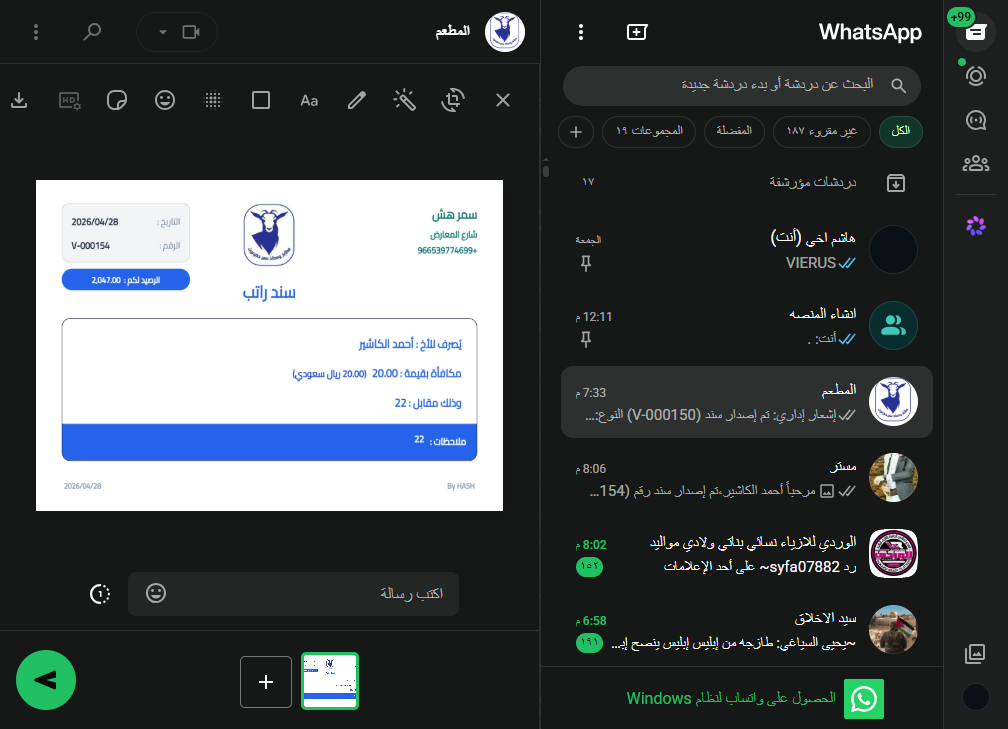
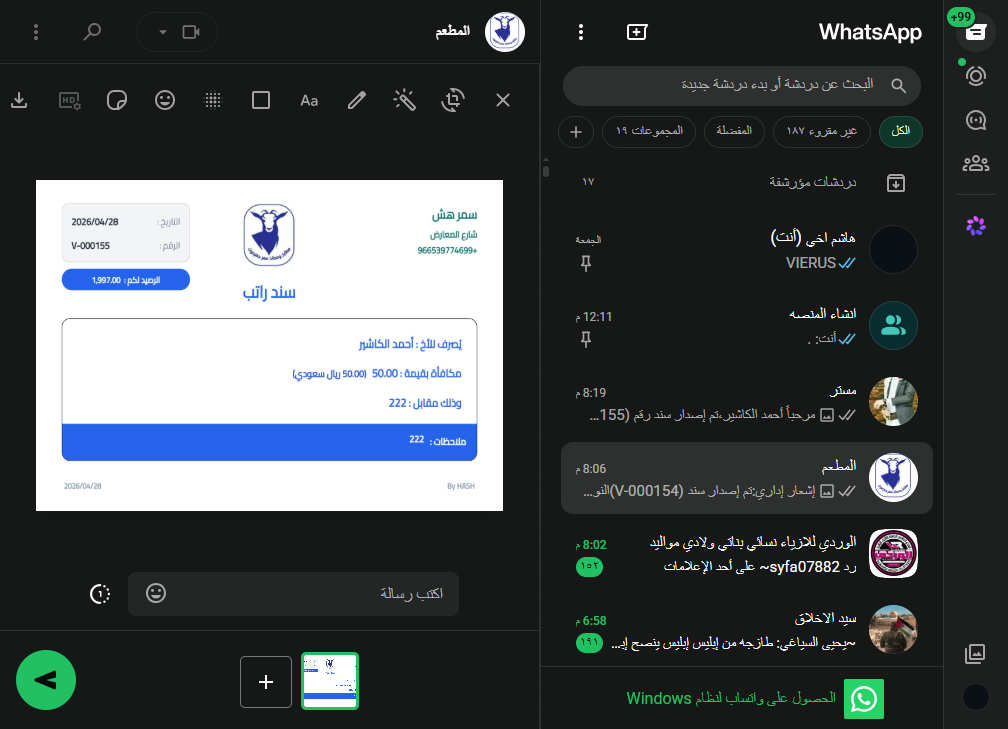
اواتساب الصوره اولا111

Changed region(s): [[0.8304, 0.513, 0.9226, 0.6941], [0.5843, 0.513, 0.8304, 0.5734], [0.5843, 0.6639, 0.8304, 0.6941]]

diff --git a/main.js b/main.js
@@ -1399,10 +1399,13 @@ function startWhatsApp() {
     // Heartbeat: detect "zombie" sessions (connected but not working) and recover automatically.
     // If getState fails/returns null repeatedly, reinitialize.
     let _hbFailures = 0;
+    let _hbStuckCount = 0;
+    let _lastState = null;
     const _hbTimer = setInterval(async () => {
       try {
         if (!waClient) return;
         const st = await waClient.getState().catch(() => null);
+        
         if (!st) {
           _hbFailures += 1;
           if (_hbFailures >= 3) {
@@ -1413,7 +1416,43 @@ function startWhatsApp() {
           }
           return;
         }
+        
         _hbFailures = 0;
+        
+        // كشف الجلسات العالقة: نفس الحالة تتكرر بدون تغيير
+        if (st === _lastState) {
+          _hbStuckCount++;
+          if (_hbStuckCount >= 6) { // بعد 90 ثانية (6 * 15) من نفس الحالة
+            console.warn('[WA] Session appears stuck on state:', st, '- Force refreshing...');
+            
+            // محاولة إعادة تنشيط الجلسة أولاً
+            try {
+              // إرسال حدث فارغ لإجبار واتساب على التحديث
+              await waClient.pupPage.evaluate(() => {
+                window.dispatchEvent(new Event('resize'));
+              }).catch(() => {});
+              
+              console.log('[WA] Force refresh triggered, waiting for recovery...');
+              _hbStuckCount = 0;
+            } catch (e) {
+              // إذا فشل التنشيط، إعادة تشغيل كاملة
+              console.warn('[WA] Force refresh failed, restarting session...');
+              clearInterval(_hbTimer);
+              await teardownWaClient();
+              scheduleWhatsAppRestart('stuck_session', 2000);
+            }
+          }
+        } else {
+          _hbStuckCount = 0;
+          _lastState = st;
+        }
+        
+        // تحديث waReady إذا كانت الحالة CONNECTED
+        if (st === 'CONNECTED' && !waReady) {
+          console.log('[WA] Heartbeat detected CONNECTED state, updating ready flag');
+          waReady = true;
+          BrowserWindow.getAllWindows().forEach(win => win.webContents.send('wa-ready'));
+        }
       } catch (e) {
         _hbFailures += 1;
       }
@@ -1483,6 +1522,37 @@ ipcMain.on('wa-check-status', (event) => {
     // Not started yet - tell renderer it's disconnected instead of force-starting
     event.sender.send('wa-disconnected');
   }
+});
+
+// New: Explicit wait for WA ready state (useful before sending)
+ipcMain.handle('wa-wait-ready', async (event, timeout = 30000) => {
+  if (waReady && waClient) {
+    return { ready: true, state: 'CONNECTED' };
+  }
+  
+  const start = Date.now();
+  while (Date.now() - start < timeout) {
+    if (waReady && waClient) {
+      return { ready: true, state: 'CONNECTED' };
+    }
+    
+    // تحقق من الحالة الفعلية
+    if (waClient) {
+      try {
+        const state = await waClient.getState().catch(() => null);
+        if (state === 'CONNECTED') {
+          waReady = true;
+          return { ready: true, state: 'CONNECTED' };
+        }
+      } catch (e) {
+        // تجاهل
+      }
+    }
+    
+    await new Promise(resolve => setTimeout(resolve, 500));
+  }
+  
+  return { ready: false, state: waClient ? 'LOADING' : 'NOT_INITIALIZED' };
 });
 
 // Manual trigger from renderer (button press)
@@ -1565,7 +1635,39 @@ ipcMain.on('wa-refresh', async () => {
 
 /** إرسال فعلي عبر جلسة واتساب على هذا الجهاز */
 async function deliverWhatsAppMessage(data) {
+  // تحقق ديناميكي من جاهزية واتساب قبل الإرسال
   if (!waClient) return { ok: false, error: 'no_client', code: 'NO_CLIENT' };
+  
+  // انتظار ذكي حتى يصبح واتساب جاهزاً (بدلاً من المهلة الزمنية الثابتة)
+  if (!waReady) {
+    console.log('[WA] Not ready yet, waiting for ready state...');
+    const maxWait = 60000; // حد أقصى 60 ثانية
+    const checkInterval = 500; // تحقق كل نصف ثانية
+    let waited = 0;
+    
+    while (!waReady && waited < maxWait) {
+      await new Promise(resolve => setTimeout(resolve, checkInterval));
+      waited += checkInterval;
+      
+      // تحقق إضافي من حالة الجلسة
+      try {
+        const state = await waClient.getState().catch(() => null);
+        if (state === 'CONNECTED' && !waReady) {
+          console.log('[WA] State is CONNECTED, marking as ready');
+          waReady = true;
+          break;
+        }
+      } catch (e) {
+        // تجاهل الأخطاء أثناء الانتظار
+      }
+    }
+    
+    if (!waReady) {
+      console.warn('[WA] Timeout waiting for ready state after', maxWait, 'ms');
+      return { ok: false, error: 'not_ready_timeout', code: 'NOT_READY_TIMEOUT' };
+    }
+    console.log('[WA] Ready state achieved after', waited, 'ms');
+  }
   try {
     const { MessageMedia } = require('whatsapp-web.js');
     const number = data.number;
@@ -2030,6 +2132,46 @@ async function handleWaSendMessage(event, data) {
   const targetRaw = String(data.number || '');
   const hasImage = isValidImageData(data.image);
   let sendResult = { success: false, number: targetRaw, image: hasImage };
+
+  // ── تحقق ديناميكي من جاهزية واتساب (Bot mode) ──
+  if (data.wa_mode === 'bot' && waClient && !waReady) {
+    console.log('[WA][NATIVE] Not ready, waiting for connection...');
+    const maxWait = 60000;
+    const checkInterval = 500;
+    let waited = 0;
+    
+    while (!waReady && waited < maxWait) {
+      await new Promise(resolve => setTimeout(resolve, checkInterval));
+      waited += checkInterval;
+      
+      // تحقق من الحالة الفعلية
+      try {
+        const state = await waClient.getState().catch(() => null);
+        if (state === 'CONNECTED' && !waReady) {
+          console.log('[WA][NATIVE] State CONNECTED detected during wait');
+          waReady = true;
+          break;
+        }
+      } catch (e) {
+        // تجاهل
+      }
+      
+      // تحقق من وجود النافذة
+      if (waNativeWin && waNativeWin.webContents && !waNativeWin.webContents.isLoading()) {
+        console.log('[WA][NATIVE] Native window ready');
+        break;
+      }
+    }
+    
+    if (!waReady && !waNativeWin) {
+      console.warn('[WA][NATIVE] Timeout waiting for ready state');
+      sendResult.error = 'WhatsApp not ready after 60s';
+      if (event && event.sender) {
+        event.sender.send('wa-send-result', sendResult);
+      }
+      return;
+    }
+  }
 
   // ── وضع المتصفح (Browser Mode) ─────────────────────────────────────────
   if (data.wa_mode === 'browser') {

diff --git a/WA_IMPROVEMENTS.md b/WA_IMPROVEMENTS.md
@@ -1,0 +1,201 @@
+# تحسينات واتساب - WA Improvements
+
+## 📋 المشاكل التي تم حلها
+
+### 1⃣ مشكلة الانتظار الطويل عند أول إرسال
+**المشكلة:**
+- عند إرسال أول سند بعد تشغيل البرنامج، كان واتساب يقعد وقت طويل يحمل
+- لم يكن هناك تحقق فعلي من جاهزية واتساب قبل الإرسال
+
+**الحل المطبق:**
+- ✅ إضافة تحقق ديناميكي من `waReady` قبل الإرسال
+- ✅ انتظار ذكي يتحقق من حالة الجلسة كل 500ms
+- ✅ التحقق من `getState() === 'CONNECTED'` كدليل على الجاهزية
+- ✅ حد أقصى للانتظار: 60 ثانية (بدلاً من الانتظار اللانهائي)
+- ✅ إذا وصلت الحالة CONNECTED، يتم تحديث `waReady = true` فوراً
+
+**الكود المضاف:**
+```javascript
+// في deliverWhatsAppMessage()
+if (!waReady) {
+  console.log('[WA] Not ready yet, waiting for ready state...');
+  const maxWait = 60000;
+  const checkInterval = 500;
+  let waited = 0;
+  
+  while (!waReady && waited < maxWait) {
+    await new Promise(resolve => setTimeout(resolve, checkInterval));
+    waited += checkInterval;
+    
+    try {
+      const state = await waClient.getState().catch(() => null);
+      if (state === 'CONNECTED' && !waReady) {
+        console.log('[WA] State is CONNECTED, marking as ready');
+        waReady = true;
+        break;
+      }
+    } catch (e) {}
+  }
+  
+  if (!waReady) {
+    return { ok: false, error: 'not_ready_timeout', code: 'NOT_READY_TIMEOUT' };
+  }
+}
+```
+
+### 2⃣ مشكلة تعليق واتساب وعدم تحميل الدردشات
+**المشكلة:**
+- في بعض الأحيان يعلق واتساب ولا يحمّل الدردشات
+- لم يكن هناك كشف تلقائي للجلسات العالقة
+
+**الحل المطبق:**
+- ✅ كشف الجلسات العالقة: إذا كانت نفس الحالة تتكرر لمدة 90 ثانية (6 checks × 15s)
+- ✅ محاولة إعادة تنشيط الجلسة أولاً عبر Event resize
+- ✅ إذا فشل التنشيط، إعادة تشغيل كاملة للجلسة
+- ✅ تحديث تلقائي لـ `waReady` عند اكتشاف `CONNECTED` في Heartbeat
+
+**الكود المضاف:**
+```javascript
+// في Heartbeat interval
+let _hbStuckCount = 0;
+let _lastState = null;
+
+if (st === _lastState) {
+  _hbStuckCount++;
+  if (_hbStuckCount >= 6) { // 90 ثانية
+    console.warn('[WA] Session appears stuck on state:', st);
+    
+    // محاولة إعادة تنشيط
+    try {
+      await waClient.pupPage.evaluate(() => {
+        window.dispatchEvent(new Event('resize'));
+      });
+      _hbStuckCount = 0;
+    } catch (e) {
+      // إعادة تشغيل كاملة
+      await teardownWaClient();
+      scheduleWhatsAppRestart('stuck_session', 2000);
+    }
+  }
+} else {
+  _hbStuckCount = 0;
+  _lastState = st;
+}
+
+// تحديث waReady تلقائياً
+if (st === 'CONNECTED' && !waReady) {
+  waReady = true;
+  BrowserWindow.getAllWindows().forEach(win => win.webContents.send('wa-ready'));
+}
+```
+
+### 3⃣ API جديد للانتظار الذكي
+**المشكلة:**
+- الواجهة الأمامية (frontend) تحتاج طريقة للانتظار حتى يصبح واتساب جاهزاً
+
+**الحل المطبق:**
+- ✅ إضافة `ipcMain.handle('wa-wait-ready')` 
+- ✅ يمكن استدعاؤه من الواجهة قبل الإرسال
+- ✅ يعيد `{ ready: true/false, state: 'CONNECTED'|'LOADING'|'NOT_INITIALIZED' }`
+
+**الاستخدام من الواجهة:**
+```javascript
+const result = await ipcRenderer.invoke('wa-wait-ready', 30000);
+if (result.ready) {
+  // واتساب جاهز، يمكن الإرسال
+  ipcRenderer.send('wa-send-message', data);
+} else {
+  // واتساب لم يصبح جاهزاً
+  console.error('WhatsApp not ready:', result.state);
+}
+```
+
+## 🔄 آلية العمل الجديدة
+
+### عند أول إرسال بعد التشغيل:
+```
+1. المستخدم يرسل سند
+   ↓
+2. handleWaSendMessage() يتحقق من waReady
+   ↓
+3. إذا waReady = false:
+   - يبدأ انتظار ذكي (حد أقصى 60 ثانية)
+   - يتحقق من getState() كل 500ms
+   - إذا اكتشف CONNECTED → يحدد waReady = true
+   ↓
+4. عندما يصبح waReady = true:
+   - يكمل الإرسال مباشرة
+   ↓
+5. إذا تجاوز 60 ثانية:
+   - يرجع خطأ: "WhatsApp not ready after 60s"
+```
+
+### عند تعليق الجلسة:
+```
+1. Heartbeat يعمل كل 15 ثانية
+   ↓
+2. يتحقق من getState()
+   ↓
+3. إذا نفس الحالة تتكرر 6 مرات (90 ثانية):
+   - يحاول Force Refresh (Event resize)
+   ↓
+4. إذا نجح Refresh:
+   - يعيد تعيين العداد
+   ↓
+5. إذا فشل Refresh:
+   - يعيد تشغيل الجلسة كاملة
+```
+
+## 📊 ملخص التحسينات
+
+| التحسين | قبل | بعد |
+|---------|-----|-----|
+| التحقق من الجاهزية | ❌ لا يوجد | ✅ تحقق ديناميكي كل 500ms |
+| انتظار أول إرسال | ⏱ مهلة ثابتة | ✅ انتظار ذكي حتى CONNECTED |
+| كشف الجلسات العالقة | ❌ لا يوجد | ✅ كل 90 ثانية |
+| تحديث تلقائي للدردشات | ❌ لا يوجد | ✅ Force Refresh تلقائي |
+| حد أقصى للانتظار | ∞ لانهائي | ⏱ 60 ثانية |
+| API للواجهة | ❌ لا يوجد | ✅ wa-wait-ready |
+
+## 🎯 الفوائد
+
+1. **لا انتظار طويل**: التحقق الديناميكي يعني الإرسال فور جاهزية واتساب
+2. **لا تعليق**: كشف تلقائي للجلسات العالقة وإعادة تنشيطها
+3. **موثوقية أعلى**: تحديث تلقائي لحالة waReady
+4. **تحكم أفضل**: API جديد للواجهة للانتظار الذكي
+5. **حدود آمنة**: حد أقصى 60 ثانية يمنع الانتظار اللانهائي
+
+## 🧪 الاختبار
+
+لاختبار التحسينات:
+
+1. **اختبار أول إرسال:**
+   ```
+   - شغّل البرنامج
+   - أرسل أول سند مباشرة
+   - راقب الـ Console: يجب ظهور "[WA] Not ready yet, waiting..."
+   - يجب أن يُرسل السند خلال ثوانٍ (ليس دقائق)
+   ```
+
+2. **اختبار كشف التعليق:**
+   ```
+   - اترك البرنامج يعمل لمدة 10+ دقائق
+   - إذا علق واتساب، راقب Console:
+     "[WA] Session appears stuck on state:..."
+     "[WA] Force refresh triggered..."
+   ```
+
+3. **اختبار API الجديد:**
+   ```javascript
+   // في Console الواجهة
+   const result = await ipcRenderer.invoke('wa-wait-ready');
+   console.log(result);
+   // يجب أن يرجع: { ready: true, state: 'CONNECTED' }
+   ```
+
+## 📝 ملاحظات
+
+- جميع التحسينات تعمل تلقائياً بدون تدخل المستخدم
+- لا توجد مهلات زمنية ثابتة (fixed timeouts) إلا كحد أقصى للأمان
+- التحقق ديناميكي ويعتمد على الحالة الفعلية لواتساب
+- Heartbeat يعمل كل 15 ثانية للكشف عن المشاكل
